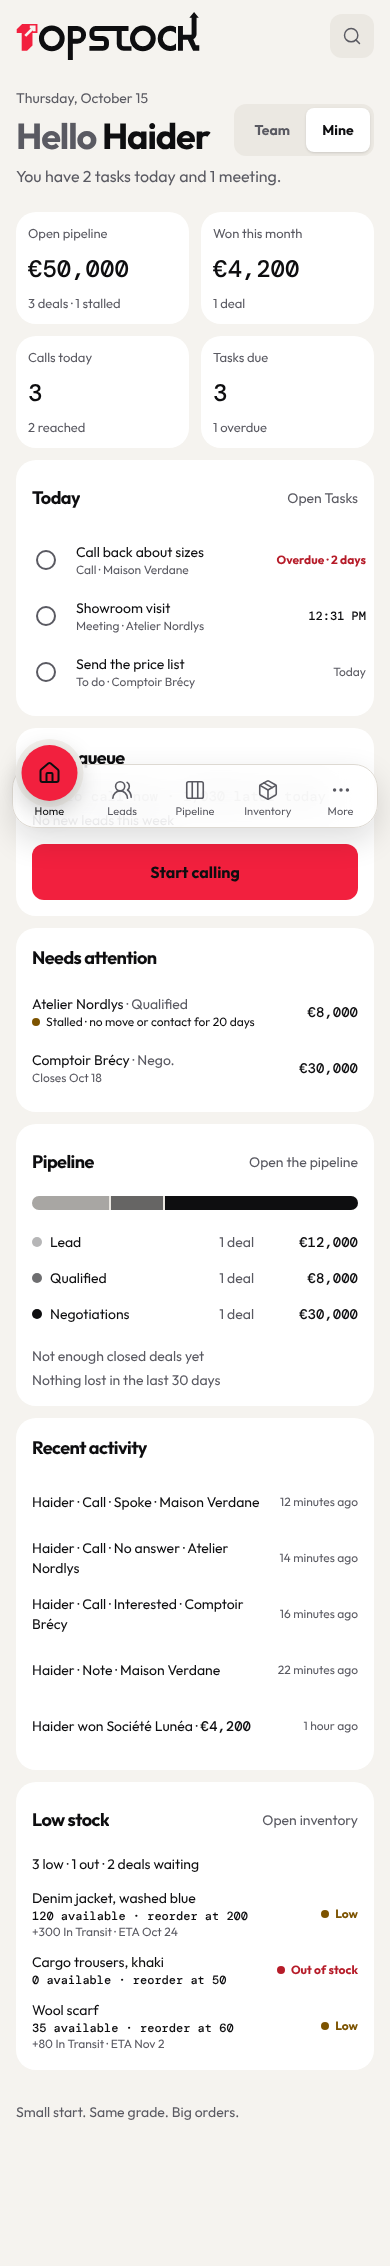
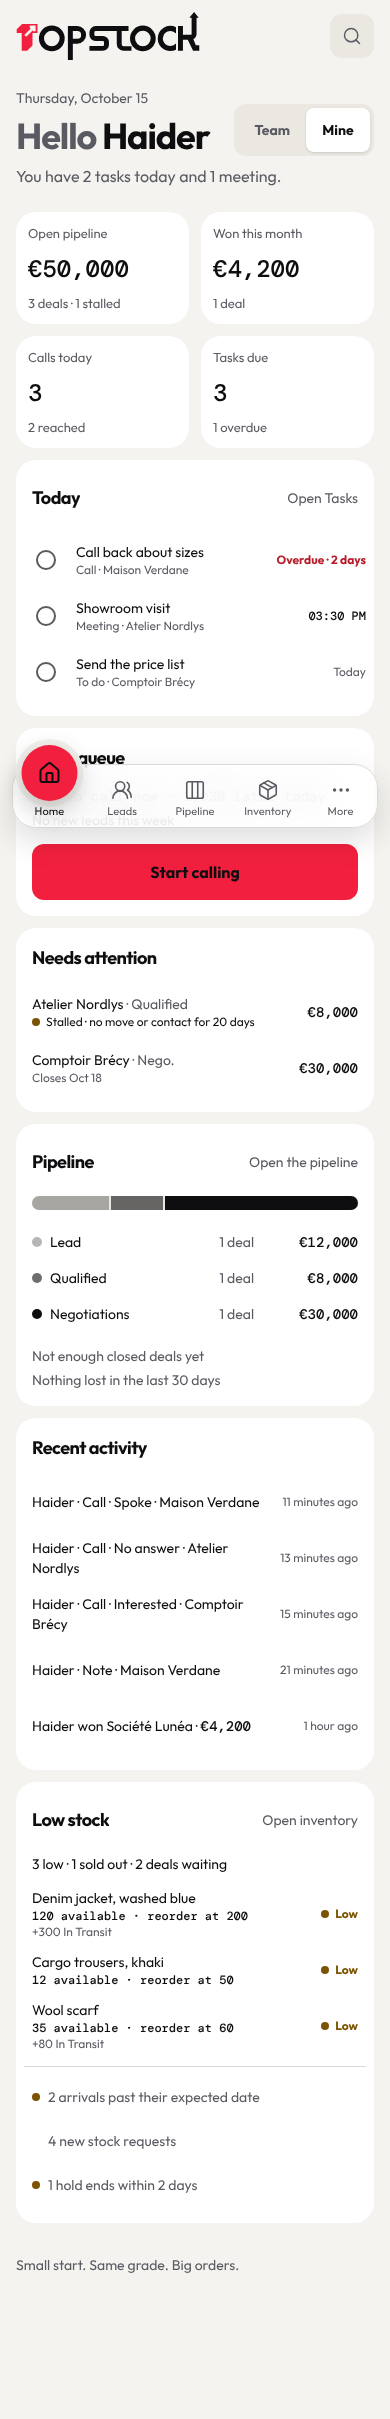
Decision B (e2e and screens): home.spec fills the card through the real server path from a Day 6-shaped stock_alerts installed on the local stack (EN and FR, all clear, an unknown key failing that card alone; the stub put back from its own definition); the low stock shots re-taken (EN light and FR d
Claude-Session: https://claude.ai/code/session_017iY13emXgm4frkkmSZrEnt

diff --git a/tests/auth/home.spec.ts b/tests/auth/home.spec.ts
@@ -6,9 +6,10 @@ import { makeOrg, moveTo, seedHome, userId } from "./home-fixture";
 // the API, the count-up on a first hard load only (never with reduced motion, never shifting the layout), ticking a
 // task done with Undo, Needs attention opening the deal sheet over Home and Home refreshing after a move, the queue
 // count after paint, Team and Mine for admins only (remembered), the profile zone for "today", the win rate hidden under
-// 5 closed deals, a new org's empty states, one card failing alone, Low stock before and after Day 6, no entry text in
-// the feed, and the phone layout. Each person lives in an org made for this run (the reused local stack holds other
-// specs' rows in the default org), so every figure is exact. Test titles carry the run id.
+// 5 closed deals, a new org's empty states, one card failing alone, Low stock before and after Day 6 (Day 6's
+// stock_alerts, decision B), no entry text in the feed, and the phone layout. Each person lives in an org made for this
+// run (the reused local stack holds other specs' rows in the default org), so every figure is exact. Test titles carry
+// the run id.
 test.describe.configure({ mode: "serial" });
 
 const password = "Home-Dash-Pass-42!";
@@ -422,37 +423,108 @@ async function viaScopeSwitch(page: Page, mutate: (data: Record<string, unknown>
   await page.getByRole("group", { name: "Figures for" }).getByRole("button", { name: "Mine" }).click();
 }
 
-test("card_error_isolated and low_stock_filled_from_contract", async ({ browser }) => {
+// Day 6's stock_alerts() stand-in for the filled card (Haider's decision B): installed as the database superuser on the
+// local stack only, with Day 6's signature and checks, answering a fixed payload in Day 6's exact shape; the 5c stub is
+// put back afterwards from its own definition (pg_get_functiondef), grants kept by create or replace. The page then
+// reads it through the real server path (fetchHome, the strict Zod parse). Auth specs run one worker at a time.
+function fakeStockAlerts(payload: Record<string, unknown>) {
+  const json = JSON.stringify(payload).replaceAll("'", "''");
+  sql(`create or replace function public.stock_alerts() returns jsonb
+       language plpgsql stable security invoker set search_path = '' as $f$
+       begin
+         if (select auth.uid()) is null or not private.has_aal2() then
+           raise exception 'two-factor sign-in required' using errcode = '42501', hint = 'forbidden';
+         end if;
+         return '${json}'::jsonb;
+       end;
+       $f$`);
+}
+const day6Alerts = {
+  low: 3, sold_out: 1, arriving_late: 2, requests_new: 4, holds_ending_soon: 1, deals_waiting: 2,
+  sample: [
+    { id: "6f1c1c1e-7a3b-4c1d-9e2f-0a1b2c3d4e5f", name: "Denim jacket", available: 120, reorder_point: 200, arriving: 300 },
+    { id: "7f1c1c1e-7a3b-4c1d-9e2f-0a1b2c3d4e5f", name: "Cargo trousers", available: 12, reorder_point: 50, arriving: 0 },
+  ],
+};
+
+test("card_error_isolated", async ({ browser }) => {
   const { context, page, errors } = await open(browser, adminState);
   await gotoHome(page);
   await viaScopeSwitch(page, (d) => {
     d.attention = { ok: false };
-    d.lowStock = {
-      ok: true,
-      data: {
-        low: 3, out: 1, deals_waiting: 2,
-        items: [
-          { product_id: "6f1c1c1e-7a3b-4c1d-9e2f-0a1b2c3d4e5f", name: "Denim jacket", available: 120, reorder_point: 200, in_transit: 300, next_eta: "2026-10-24", state: "low" },
-          { product_id: "7f1c1c1e-7a3b-4c1d-9e2f-0a1b2c3d4e5f", name: "Cargo trousers", available: 0, reorder_point: 50, in_transit: 0, next_eta: null, state: "out" },
-        ],
-      },
-    };
   });
   await expect(card(page, /^Needs attention/)).toContainText("Couldn’t load");
   await expect(card(page, /^Needs attention/).getByRole("button", { name: "Retry" })).toBeVisible();
   // Every other card keeps working.
   await expect(kpi(page, /Open pipeline/)).toContainText("€50,000");
   await expect(card(page, /^Recent activity/)).toContainText(`Comptoir Brécy ${run}`);
-  const low = card(page, /^Low stock/);
-  await expect(low).toContainText("3 low · 1 out · 2 deals waiting");
-  await expect(low).toContainText("120 available · reorder at 200");
-  await expect(low).toContainText("+300 In Transit · ETA Oct 24");
-  await expect(low).toContainText("Out of stock");
-  await expect(low.getByRole("link", { name: "Open inventory" })).toHaveAttribute("href", "/inventory?filter=low");
+  await expect(card(page, /^Low stock/)).toContainText("Stock alerts will show here once inventory is set up.");
   expect(errors).toEqual([]);
   await page.getByRole("group", { name: "Figures for" }).getByRole("button", { name: "Team" }).click();
   await settled(page);
   await context.close();
+});
+
+test("low_stock_filled_from_day6_stock_alerts, all clear, and a wrong shape failing alone", async ({ browser }) => {
+  const stub = sql("select pg_get_functiondef('public.stock_alerts()'::regprocedure)");
+  expect(stub).toContain("return null");
+  try {
+    fakeStockAlerts(day6Alerts);
+    const { context, page, errors } = await open(browser, adminState);
+    await gotoHome(page);
+    const low = card(page, /^Low stock/);
+    await expect(low).toContainText("3 low · 1 sold out · 2 deals waiting");
+    await expect(low.getByRole("listitem").filter({ hasText: "Denim jacket" })).toContainText("120 available · reorder at 200");
+    await expect(low.getByRole("listitem").filter({ hasText: "Denim jacket" })).toContainText("+300 In Transit");
+    await expect(low.getByRole("listitem").filter({ hasText: "Denim jacket" })).toContainText("Low");
+    // Nothing in transit: no transit line.
+    await expect(low.getByRole("listitem").filter({ hasText: "Cargo trousers" })).not.toContainText("In Transit");
+    await expect(low.getByRole("link", { name: "Open inventory" })).toHaveAttribute("href", "/inventory?filter=low");
+    const follow = low.getByRole("list", { name: "Also in inventory" });
+    await expect(follow.getByRole("link", { name: "2 arrivals past their expected date" })).toHaveAttribute("href", "/inventory?tab=arriving");
+    await expect(follow.getByRole("link", { name: "4 new stock requests" })).toHaveAttribute("href", "/inventory?tab=requests");
+    await expect(follow.getByRole("link", { name: "1 hold ends within 2 days" })).toHaveAttribute("href", "/inventory?tab=reserved");
+    expect(errors).toEqual([]);
+    await context.close();
+
+    // French: French typography (narrow no-break space before the colon) and plurals.
+    const fr = await open(browser, adminState, { locale: "fr" });
+    await gotoHome(fr.page);
+    const bas = card(fr.page, /^Stock bas/);
+    await expect(bas).toContainText("3 en stock bas · 1 épuisé · 2 affaires en attente");
+    await expect(bas).toContainText("Disponible\u202f: 120 · seuil\u202f: 200");
+    await expect(bas).toContainText("4 nouvelles demandes de stock");
+    expect(fr.errors).toEqual([]);
+    await fr.context.close();
+
+    // All clear: the calm line, no product list, no follow-up lines; a follow-up count alone still shows its line.
+    fakeStockAlerts({ low: 0, sold_out: 0, arriving_late: 0, requests_new: 1, holds_ending_soon: 0, deals_waiting: 0, sample: [] });
+    const clear = await open(browser, adminState);
+    await gotoHome(clear.page);
+    const ok = card(clear.page, /^Low stock/);
+    await expect(ok).toContainText("All products are above their reorder level.");
+    await expect(ok.getByRole("link", { name: "1 new stock request" })).toBeVisible();
+    await expect(ok.getByRole("link", { name: /arrival|hold/ })).toHaveCount(0);
+    expect(clear.errors).toEqual([]);
+    await clear.context.close();
+
+    // A wrong shape (an unknown key: a purchase cost) fails the strict parse: that card's error, the rest standing.
+    fakeStockAlerts({ ...day6Alerts, cost_per_piece: 4.1 });
+    const bad = await open(browser, adminState);
+    await gotoHome(bad.page);
+    await expect(card(bad.page, /^Low stock/)).toContainText("Couldn’t load");
+    await expect(card(bad.page, /^Low stock/)).not.toContainText("Denim jacket");
+    await expect(card(bad.page, /^Recent activity/)).toContainText(`Comptoir Brécy ${run}`);
+    await expect(card(bad.page, /^Needs attention/)).not.toContainText("Couldn’t load");
+    const api = await (await bad.page.request.get("/api/home?scope=team")).json();
+    expect(api.lowStock).toEqual({ ok: false });
+    expect(JSON.stringify(api)).not.toContain("cost_per_piece");
+    expect(bad.errors).toEqual([]);
+    await bad.context.close();
+  } finally {
+    sql(stub);
+  }
+  expect(sql("select pg_get_functiondef('public.stock_alerts()'::regprocedure)")).toBe(stub);
 });
 
 test("phone_390_no_horizontal_scroll", async ({ browser }) => {

diff --git a/tests/auth/home-screens.spec.ts b/tests/auth/home-screens.spec.ts
@@ -5,8 +5,8 @@ import { makeOrg, moveTo, seedHome, userId } from "./home-fixture";
 
 // Day 5c evidence screenshots (design 8.5 "Screens", CLAUDE.md widths): Home with data (before Day 6, so Low stock shows
 // its placeholder) at 390, 768, 1024, 1280, 1440 and 1728, light and dark, English and French; a representative set in
-// EN light and FR dark at 390 and 1440: a new org's empty states, one card failing alone, Low stock filled from the
-// Day 6 contract, the deal sheet over Home, the loading skeleton, and the Work queue card with Day 4c's counts. The
+// EN light and FR dark at 390 and 1440: a new org's empty states, one card failing alone, Low stock filled from Day 6's
+// stock_alerts() shape, the deal sheet over Home, the loading skeleton, and the Work queue card with Day 4c's counts. The
 // person is an admin in an org made for this run, so the figures are the fixture's. URL asserted before each shot; no
 // console error and no sideways scroll first. Saved to test-results/home-screens, or DAY5C_SCREENS_DIR (locally
 // docs/evidence/day5c/screens).
@@ -95,7 +95,7 @@ test("Home with data, every width, light and dark, EN and FR (before Day 6)", as
   await shoot(browser, "home", full, ALL);
 });
 
-test("representative set: empty org, card error, low stock contract, deal sheet, skeleton, queue before 4c", async ({ browser }) => {
+test("representative set: empty org, card error, deal sheet, skeleton, queue before 4c", async ({ browser }) => {
   await shoot(browser, "home-new-org", some, [390, 1440], { as: emptyState });
   const swap = (mutate: (d: Record<string, unknown>) => void) => async (page: Page) => {
     await page.route((url) => url.pathname === "/api/home" && url.searchParams.get("scope") === "mine", async (route) => {
@@ -109,21 +109,6 @@ test("representative set: empty org, card error, low stock contract, deal sheet,
     await page.waitForTimeout(300);
   };
   await shoot(browser, "home-card-error", some, [390, 1440], { act: swap((d) => (d.attention = { ok: false })) });
-  await shoot(browser, "home-low-stock-day6", some, [390, 1440], {
-    act: swap((d) => {
-      d.lowStock = {
-        ok: true,
-        data: {
-          low: 3, out: 1, deals_waiting: 2,
-          items: [
-            { product_id: "6f1c1c1e-7a3b-4c1d-9e2f-0a1b2c3d4e5f", name: "Denim jacket, washed blue", available: 120, reorder_point: 200, in_transit: 300, next_eta: "2026-10-24", state: "low" },
-            { product_id: "7f1c1c1e-7a3b-4c1d-9e2f-0a1b2c3d4e5f", name: "Cargo trousers, khaki", available: 0, reorder_point: 50, in_transit: 0, next_eta: null, state: "out" },
-            { product_id: "8f1c1c1e-7a3b-4c1d-9e2f-0a1b2c3d4e5f", name: "Wool scarf", available: 35, reorder_point: 60, in_transit: 80, next_eta: "2026-11-02", state: "low" },
-          ],
-        },
-      };
-    }),
-  });
   await shoot(browser, "home-deal-sheet", some, [390, 1440], {
     fullPage: false,
     act: async (page) => {
@@ -148,4 +133,34 @@ test("representative set: empty org, card error, low stock contract, deal sheet,
     },
   });
   await shoot(browser, "home-queue-before-4c", [{ locale: "en", scheme: "light" }], [1440], { queue: false });
+});
+
+// Low stock filled from Day 6's stock_alerts() shape (Haider's decision B, 15 Oct 2026): the counts, up to 5 low
+// products and the follow-up lines. Run alone with --grep "Low stock" to re-take only these shots.
+test("Low stock filled from Day 6's stock_alerts", async ({ browser }) => {
+  await shoot(browser, "home-low-stock-day6", some, [390, 1440], {
+    act: async (page) => {
+      await page.route((url) => url.pathname === "/api/home" && url.searchParams.get("scope") === "mine", async (route) => {
+        const res = await route.fetch();
+        const data = (await res.json()) as Record<string, unknown>;
+        data.lowStock = {
+          ok: true,
+          data: {
+            low: 3, sold_out: 1, arriving_late: 2, requests_new: 4, holds_ending_soon: 1, deals_waiting: 2,
+            sample: [
+              { id: "6f1c1c1e-7a3b-4c1d-9e2f-0a1b2c3d4e5f", name: "Denim jacket, washed blue", available: 120, reorder_point: 200, arriving: 300 },
+              { id: "7f1c1c1e-7a3b-4c1d-9e2f-0a1b2c3d4e5f", name: "Cargo trousers, khaki", available: 12, reorder_point: 50, arriving: 0 },
+              { id: "8f1c1c1e-7a3b-4c1d-9e2f-0a1b2c3d4e5f", name: "Wool scarf", available: 35, reorder_point: 60, arriving: 80 },
+            ],
+          },
+        };
+        await route.fulfill({ response: res, body: JSON.stringify(data) });
+      });
+      const scope = page.getByRole("group", { name: /Figures for|Chiffres de/ }).getByRole("button", { name: /Mine|Moi/ });
+      await scope.click();
+      await expect(scope).toHaveAttribute("aria-pressed", "true");
+      await expect(page.getByRole("region", { name: /Low stock|Stock bas/ }).getByRole("listitem").first()).toBeVisible();
+      await page.waitForTimeout(300);
+    },
+  });
 });
